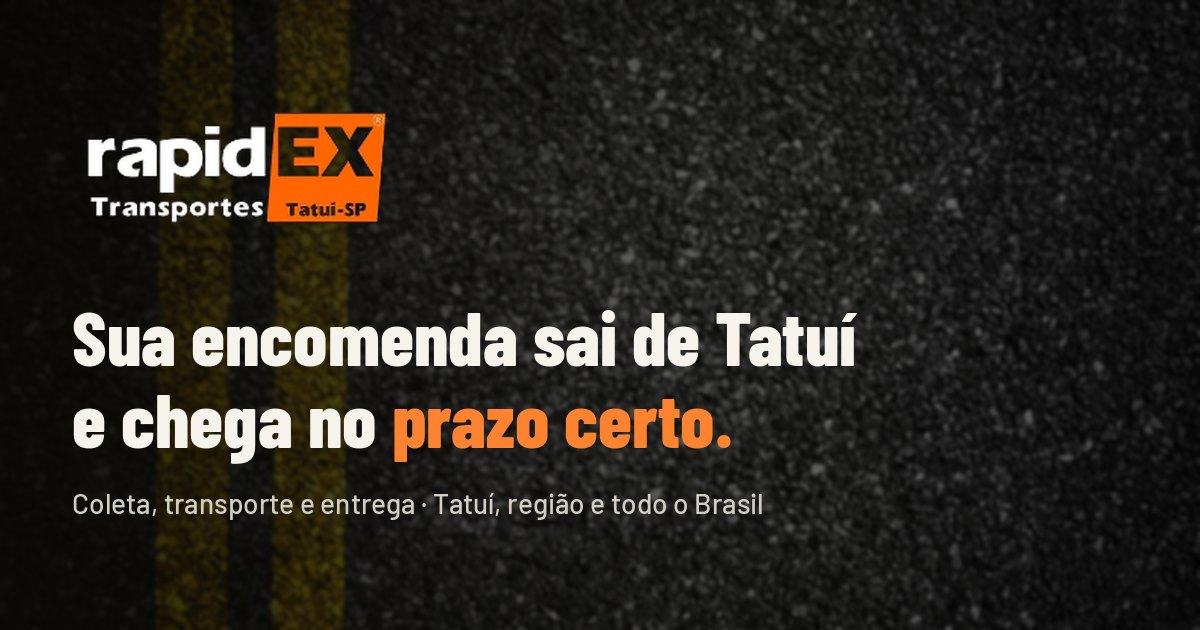
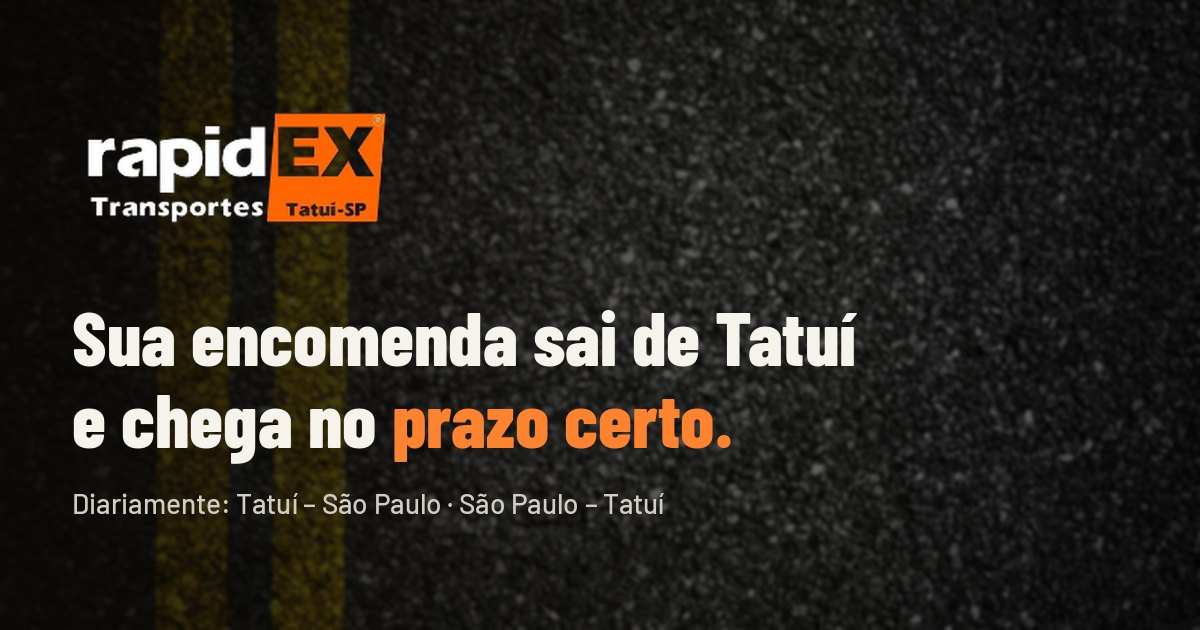
Ajusta os textos à operação real: rota diária Tatuí–São Paulo
Remove as promessas de entrega para todo o Brasil, destaca as saídas
diárias de Tatuí para São Paulo e de São Paulo para Tatuí (capital e
região), atualiza para 200+ empresas e conta os anos desde 10/10/2005.

Claude-Session: https://claude.ai/code/session_013axPAPZRmzezjd973jVstv

Changed region(s): [[0.0617, 0.7841, 0.6475, 0.8143]]

diff --git a/index.html b/index.html
@@ -4,7 +4,7 @@
 <meta charset="utf-8">
 <meta name="viewport" content="width=device-width, initial-scale=1">
 <title>Rapidex Transportes | Transportadora em Tatuí – SP</title>
-<meta name="description" content="Transportadora em Tatuí – SP: coleta, transporte e entrega de encomendas para a região e todo o Brasil, com rastreamento e comprovante. Cotação pelo WhatsApp.">
+<meta name="description" content="Transportadora em Tatuí – SP com saídas diárias de Tatuí para São Paulo e de São Paulo para Tatuí. Coleta, transporte e entrega com rastreamento. Cotação pelo WhatsApp.">
 <meta name="theme-color" content="#15140F">
 <link rel="canonical" href="https://rapidextatui.com/">
 <link rel="icon" href="favicon.ico" sizes="any">
@@ -15,12 +15,12 @@
 <meta property="og:locale" content="pt_BR">
 <meta property="og:site_name" content="Rapidex Transportes">
 <meta property="og:title" content="Rapidex Transportes — Transportadora em Tatuí – SP">
-<meta property="og:description" content="Sua encomenda sai de Tatuí e chega no prazo certo. Coleta, transporte e entrega para a região e todo o Brasil.">
+<meta property="og:description" content="Todos os dias, de Tatuí para São Paulo e de São Paulo para Tatuí. Coleta, transporte e entrega com rastreamento e comprovante.">
 <meta property="og:image" content="https://rapidextatui.com/assets/og-rapidex.jpg">
 <meta property="og:image:width" content="1200">
 <meta property="og:image:height" content="630">
 <meta name="twitter:card" content="summary_large_image">
-<script type="application/ld+json">{"@context": "https://schema.org", "@type": "LocalBusiness", "name": "Rapidex Transportes", "url": "https://rapidextatui.com/", "logo": "https://rapidextatui.com/assets/rapidex-logo.png", "image": "https://rapidextatui.com/assets/og-rapidex.jpg", "description": "Transporte de encomendas fracionadas e exclusivas, com coleta, rastreamento e entrega porta a porta.", "telephone": "+55-15-99669-4005", "email": "jairo.rapidextransportes@gmail.com", "address": {"@type": "PostalAddress", "addressLocality": "Tatuí", "addressRegion": "SP", "addressCountry": "BR"}, "geo": {"@type": "GeoCoordinates", "latitude": -23.3355705, "longitude": -47.8533787}, "areaServed": ["Tatuí", "Região de Sorocaba", "São Paulo", "Brasil"], "sameAs": ["https://www.facebook.com/rapidex.floriano", "https://www.google.com/maps/place/TRANSPORTADORA+RAPIDEX+TATUI+LTDA/@-23.3355505,-47.8636785,3010m/data=!3m2!1e3!4b1!4m6!3m5!1s0x94c5d8e336f9d78f:0xbaa27cdbf4aa8ed2!8m2!3d-23.3355705!4d-47.8533787!16s%2Fg%2F11c1xp5sr7"]}</script>
+<script type="application/ld+json">{"@context": "https://schema.org", "@type": "LocalBusiness", "name": "Rapidex Transportes", "url": "https://rapidextatui.com/", "logo": "https://rapidextatui.com/assets/rapidex-logo.png", "image": "https://rapidextatui.com/assets/og-rapidex.jpg", "description": "Transporte de encomendas fracionadas e exclusivas, com saídas diárias entre Tatuí e São Paulo, capital e região.", "foundingDate": "2005-10-10", "telephone": "+55-15-99669-4005", "email": "jairo.rapidextransportes@gmail.com", "address": {"@type": "PostalAddress", "addressLocality": "Tatuí", "addressRegion": "SP", "addressCountry": "BR"}, "geo": {"@type": "GeoCoordinates", "latitude": -23.3355705, "longitude": -47.8533787}, "areaServed": ["Tatuí e região", "São Paulo (capital) e região"], "sameAs": ["https://www.facebook.com/rapidex.floriano", "https://www.google.com/maps/place/TRANSPORTADORA+RAPIDEX+TATUI+LTDA/@-23.3355505,-47.8636785,3010m/data=!3m2!1e3!4b1!4m6!3m5!1s0x94c5d8e336f9d78f:0xbaa27cdbf4aa8ed2!8m2!3d-23.3355705!4d-47.8533787!16s%2Fg%2F11c1xp5sr7"]}</script>
 <link rel="preconnect" href="https://fonts.googleapis.com">
 <link rel="preconnect" href="https://fonts.gstatic.com" crossorigin="">
 <link href="https://fonts.googleapis.com/css2?family=Barlow+Condensed:wght@600;700;800;900&amp;family=Barlow:wght@400;500;600;700&amp;display=swap" rel="stylesheet">
@@ -119,6 +119,7 @@ section[id]{scroll-margin-top:88px;}
 .rpx-hero-inner{position:relative;z-index:2;max-width:1240px;margin:0 auto;padding:118px 28px 40px;display:grid;grid-template-columns:1.05fr 0.95fr;gap:48px;align-items:center;}
 .rpx-hero-inner>div{min-width:0;}
 .rpx-eyebrow{display:inline-flex;align-items:center;gap:10px;padding:7px 14px 7px 10px;border:1px solid rgba(245,243,236,0.22);border-radius:100px;font-size:12.5px;font-weight:700;letter-spacing:.08em;text-transform:uppercase;color:var(--rpx-hero-soft);background:rgba(13,12,7,0.55);backdrop-filter:blur(8px);-webkit-backdrop-filter:blur(8px);}
+.rpx-eyebrow .rpx-swap{flex:none;margin:0 -3px;color:var(--rpx-orange);}
 .rpx-eyebrow .dot{width:7px;height:7px;border-radius:50%;background:var(--rpx-orange);box-shadow:0 0 0 3px rgba(254,131,48,0.25);flex:none;}
 .rpx-hero h1{margin-top:26px;font-size:clamp(42px,5.4vw,76px);color:var(--rpx-hero-ink);text-shadow:0 4px 28px rgba(0,0,0,0.55);}
 .rpx-hero h1 span{color:var(--rpx-orange);}
@@ -618,9 +619,9 @@ a:focus-visible,button:focus-visible{outline:2px solid var(--rpx-orange-ink);out
   <div class="rpx-hero-blob" id="rpx-hero-blob"></div>
   <div class="rpx-hero-inner">
     <div>
-      <span class="rpx-eyebrow"><span class="dot"></span>Coleta · Transporte · Entrega</span>
+      <span class="rpx-eyebrow"><span class="dot"></span>Diariamente · Tatuí<svg class="rpx-swap" width="15" height="15" viewBox="0 0 24 24" fill="none" stroke="currentColor" stroke-width="2.4" stroke-linecap="round" stroke-linejoin="round" aria-hidden="true"><path d="M4 8h15l-4-4"></path><path d="M20 16H5l4 4"></path></svg><span class="rpx-sr"> e </span>São Paulo</span>
       <h1>Sua encomenda sai de Tatuí<br>e chega no <span>prazo certo.</span></h1>
-      <p class="rpx-sub">Coleta, transporte e entrega de encomendas — locais e para todo o Brasil — com rastreamento do início ao fim e comprovante assim que a encomenda chega ao destino.</p>
+      <p class="rpx-sub">Coleta, transporte e entrega de encomendas entre Tatuí e a capital paulista, com atendimento às duas regiões, rastreamento do início ao fim e comprovante assim que a encomenda chega ao destino.</p>
       <div class="rpx-hero-actions">
         <a class="rpx-btn rpx-btn-primary" href="https://wa.me/5515996694005?text=Ol%C3%A1%2C%20quero%20fazer%20uma%20cota%C3%A7%C3%A3o%20com%20a%20Rapidex%20Transportes" target="_blank" rel="noopener" style="background-color: #7AD549; box-shadow: 0px 10px 24px -10px #7ad549">
           <svg width="18" height="18" viewBox="0 0 24 24" fill="currentColor" aria-hidden="true"><path d="M17.472 14.382c-.297-.149-1.758-.867-2.03-.967-.273-.099-.471-.148-.67.15-.197.297-.767.966-.94 1.164-.173.199-.347.223-.644.075-.297-.15-1.255-.463-2.39-1.475-.883-.788-1.48-1.761-1.653-2.059-.173-.297-.018-.458.13-.606.134-.133.298-.347.446-.52.149-.174.198-.298.298-.497.099-.198.05-.371-.025-.52-.075-.149-.669-1.612-.916-2.207-.242-.579-.487-.5-.669-.51-.173-.008-.371-.01-.57-.01-.198 0-.52.074-.792.372-.272.297-1.04 1.016-1.04 2.479 0 1.462 1.065 2.875 1.213 3.074.149.198 2.096 3.2 5.077 4.487.709.306 1.262.489 1.694.625.712.227 1.36.195 1.871.118.571-.085 1.758-.719 2.006-1.413.248-.694.248-1.289.173-1.413-.074-.124-.272-.198-.57-.347m-5.421 7.403h-.004a9.87 9.87 0 01-5.031-1.378l-.361-.214-3.741.982.998-3.648-.235-.374a9.86 9.86 0 01-1.51-5.26c.001-5.45 4.436-9.884 9.888-9.884 2.64 0 5.122 1.03 6.988 2.898a9.825 9.825 0 012.893 6.994c-.003 5.45-4.437 9.884-9.885 9.884m8.413-18.297A11.815 11.815 0 0012.05 0C5.495 0 .16 5.335.157 11.892c0 2.096.547 4.142 1.588 5.945L.057 24l6.305-1.654a11.882 11.882 0 005.683 1.448h.005c6.554 0 11.89-5.335 11.893-11.893a11.821 11.821 0 00-3.48-8.413Z"></path></svg>
@@ -630,7 +631,7 @@ a:focus-visible,button:focus-visible{outline:2px solid var(--rpx-orange-ink);out
       </div>
       <div class="rpx-hero-meta">
         <span class="item"><svg width="16" height="16" viewBox="0 0 24 24" fill="none" stroke="currentColor" stroke-width="2" stroke-linecap="round" stroke-linejoin="round"><path d="M20 10c0 6-8 12-8 12s-8-6-8-12a8 8 0 0 1 16 0Z"></path><circle cx="12" cy="10" r="3"></circle></svg>Rua Prof. Brasil Santos, 505 · Jardim Tokio · Tatuí – SP</span>
-        <span class="item"><svg width="16" height="16" viewBox="0 0 24 24" fill="none" stroke="currentColor" stroke-width="2" stroke-linecap="round" stroke-linejoin="round"><circle cx="12" cy="12" r="9"></circle><path d="M12 7v5l3 3"></path></svg>Cobertura local e em todo o Brasil</span>
+        <span class="item"><svg width="16" height="16" viewBox="0 0 24 24" fill="none" stroke="currentColor" stroke-width="2" stroke-linecap="round" stroke-linejoin="round"><circle cx="12" cy="12" r="9"></circle><path d="M12 7v5l3 3"></path></svg>Saídas diárias nos dois sentidos</span>
       </div>
     </div>
 
@@ -692,12 +693,12 @@ a:focus-visible,button:focus-visible{outline:2px solid var(--rpx-orange-ink);out
 <section id="rpx-stats" class="rpx-stats reveal">
   <div class="rpx-stats-inner">
     <div class="rpx-stat">
-      <div class="rpx-stat-num"><span id="rpx-years-count">0</span>+</div>
-      <div class="rpx-stat-label">anos entregando com confiança em Tatuí — desde 2020</div>
+      <div class="rpx-stat-num"><span id="rpx-years-count">20</span>+</div>
+      <div class="rpx-stat-label">anos entregando com confiança em Tatuí — desde 2005</div>
     </div>
     <div class="rpx-stat">
-      <div class="rpx-stat-num rpx-stat-text">Local &amp; nacional</div>
-      <div class="rpx-stat-label">Entregas em Tatuí e região, com envios para todo o Brasil</div>
+      <div class="rpx-stat-num rpx-stat-text">Rota diária</div>
+      <div class="rpx-stat-label">De Tatuí para São Paulo e de São Paulo para Tatuí — capital e região</div>
     </div>
     <div class="rpx-stat">
       <div class="rpx-stat-num rpx-stat-text">Ponta a ponta</div>
@@ -710,7 +711,7 @@ a:focus-visible,button:focus-visible{outline:2px solid var(--rpx-orange-ink);out
   <div class="rpx-wrap">
     <div class="rpx-section-head reveal">
       <h2 id="rpx-clients-title">Empresas que confiam na&nbsp;Rapidex</h2>
-      <p class="rpx-desc"><span class="rpx-clients-count">+30 empresas</span> de Tatuí e região já colocam suas entregas nas nossas mãos — da indústria ao comércio local.</p>
+      <p class="rpx-desc"><span class="rpx-clients-count">200+ empresas</span> de Tatuí e região já colocam suas entregas nas nossas mãos — da indústria ao comércio local.</p>
     </div>
   </div>
   <div class="rpx-marquee">
@@ -803,8 +804,8 @@ a:focus-visible,button:focus-visible{outline:2px solid var(--rpx-orange-ink);out
     <div class="rpx-card-grid reveal">
       <div class="rpx-card">
         <div class="rpx-icn"><svg width="22" height="22" viewBox="0 0 24 24" fill="none" stroke="#B74A01" stroke-width="2" stroke-linecap="round" stroke-linejoin="round"><path d="M21 16V8a2 2 0 0 0-1-1.73l-7-4a2 2 0 0 0-2 0l-7 4A2 2 0 0 0 3 8v8a2 2 0 0 0 1 1.73l7 4a2 2 0 0 0 2 0l7-4A2 2 0 0 0 21 16Z"></path><path d="M3.27 6.96 12 12.01l8.73-5.05"></path><path d="M12 22.08V12"></path></svg></div>
-        <h3>Envios nacionais</h3>
-        <p>Encomendas para qualquer cidade do Brasil, com acompanhamento durante todo o trajeto.</p>
+        <h3>Rota diária para São Paulo</h3>
+        <p>Todos os dias, de Tatuí para São Paulo e de São Paulo para Tatuí, atendendo a capital e a região, com acompanhamento durante todo o trajeto.</p>
       </div>
       <div class="rpx-card">
         <div class="rpx-icn"><svg width="22" height="22" viewBox="0 0 24 24" fill="none" stroke="#B74A01" stroke-width="2" stroke-linecap="round" stroke-linejoin="round"><path d="M20 10c0 6-8 12-8 12s-8-6-8-12a8 8 0 0 1 16 0Z"></path><circle cx="12" cy="10" r="3"></circle></svg></div>
@@ -880,7 +881,7 @@ a:focus-visible,button:focus-visible{outline:2px solid var(--rpx-orange-ink);out
   <div class="rpx-wrap">
     <div class="rpx-section-head reveal">
       <h2>Nossa frota</h2>
-      <p class="rpx-desc">Veículos próprios e identificados, prontos para atender Tatuí, a região e todo o Brasil.</p>
+      <p class="rpx-desc">Veículos próprios e identificados, rodando todos os dias entre Tatuí e São Paulo — capital e região.</p>
     </div>
 
     <div class="rpx-fleet-grid reveal">
@@ -950,7 +951,7 @@ a:focus-visible,button:focus-visible{outline:2px solid var(--rpx-orange-ink);out
           <span>A Rapidex entrega em outras cidades além de Tatuí?</span>
           <svg class="chev" width="18" height="18" viewBox="0 0 24 24" fill="none" stroke="currentColor" stroke-width="2" stroke-linecap="round" stroke-linejoin="round"><path d="M6 9l6 6 6-6"></path></svg>
         </button>
-        <div class="faq-answer"><div class="faq-answer-inner"><p>Sim. Além das entregas locais em Tatuí e região, fazemos envios para qualquer cidade do Brasil.</p></div></div>
+        <div class="faq-answer"><div class="faq-answer-inner"><p>Sim. Além das entregas em Tatuí e região, fazemos diariamente a rota de Tatuí para São Paulo e de São Paulo para Tatuí, atendendo a capital paulista e a região.</p></div></div>
       </div>
       <div class="faq-item">
         <button class="faq-q" type="button" aria-expanded="false" data-faq>
@@ -1022,7 +1023,7 @@ a:focus-visible,button:focus-visible{outline:2px solid var(--rpx-orange-ink);out
 
       <div class="rpx-map-panel">
         <h3>Sede em Tatuí – SP</h3>
-        <p>Atendemos a cidade e a região, com saída de Tatuí para todo o Brasil.</p>
+        <p>Atendemos Tatuí e região, com saídas diárias para São Paulo, capital e região.</p>
         <div class="rpx-radar">
           <div class="rpx-radar-scale" aria-hidden="true">
           <div class="rpx-radar-grid"></div>
@@ -1087,7 +1088,7 @@ a:focus-visible,button:focus-visible{outline:2px solid var(--rpx-orange-ink);out
     <div class="rpx-footer-top">
       <div>
         <img src="assets/rapidex-logo.png" alt="Rapidex Transportes Tatuí-SP">
-        <p class="desc">Transporte de encomendas fracionadas e exclusivas, com coleta, rastreamento e entrega porta a porta em Tatuí, região e todo o Brasil.</p>
+        <p class="desc">Transporte de encomendas fracionadas e exclusivas, com coleta, rastreamento e entrega porta a porta — diariamente entre Tatuí e São Paulo, capital e região.</p>
       </div>
       <div class="rpx-footer-col">
         <h4>Contato</h4>
@@ -1132,7 +1133,7 @@ a:focus-visible,button:focus-visible{outline:2px solid var(--rpx-orange-ink);out
     </span>
   </a>
 </div>
-<div id="versao" class="rpx-versao">Versão 4 · 24/09/2026</div>
+<div id="versao" class="rpx-versao">Versão 5 · 24/09/2026</div>
 
 <script>
 /* the page logic was written for the design canvas runtime; this shim lets the same class run on its own */
@@ -1297,7 +1298,10 @@ class Component extends DCLogic {
   }
 
   yearsActive() {
-    var y = new Date().getFullYear() - 2020;
+    // founded 10/10/2005: count only completed years
+    var now = new Date();
+    var y = now.getFullYear() - 2005;
+    if (now.getMonth() < 9 || (now.getMonth() === 9 && now.getDate() < 10)) { y -= 1; }
     return y > 0 ? y : 1;
   }
 
